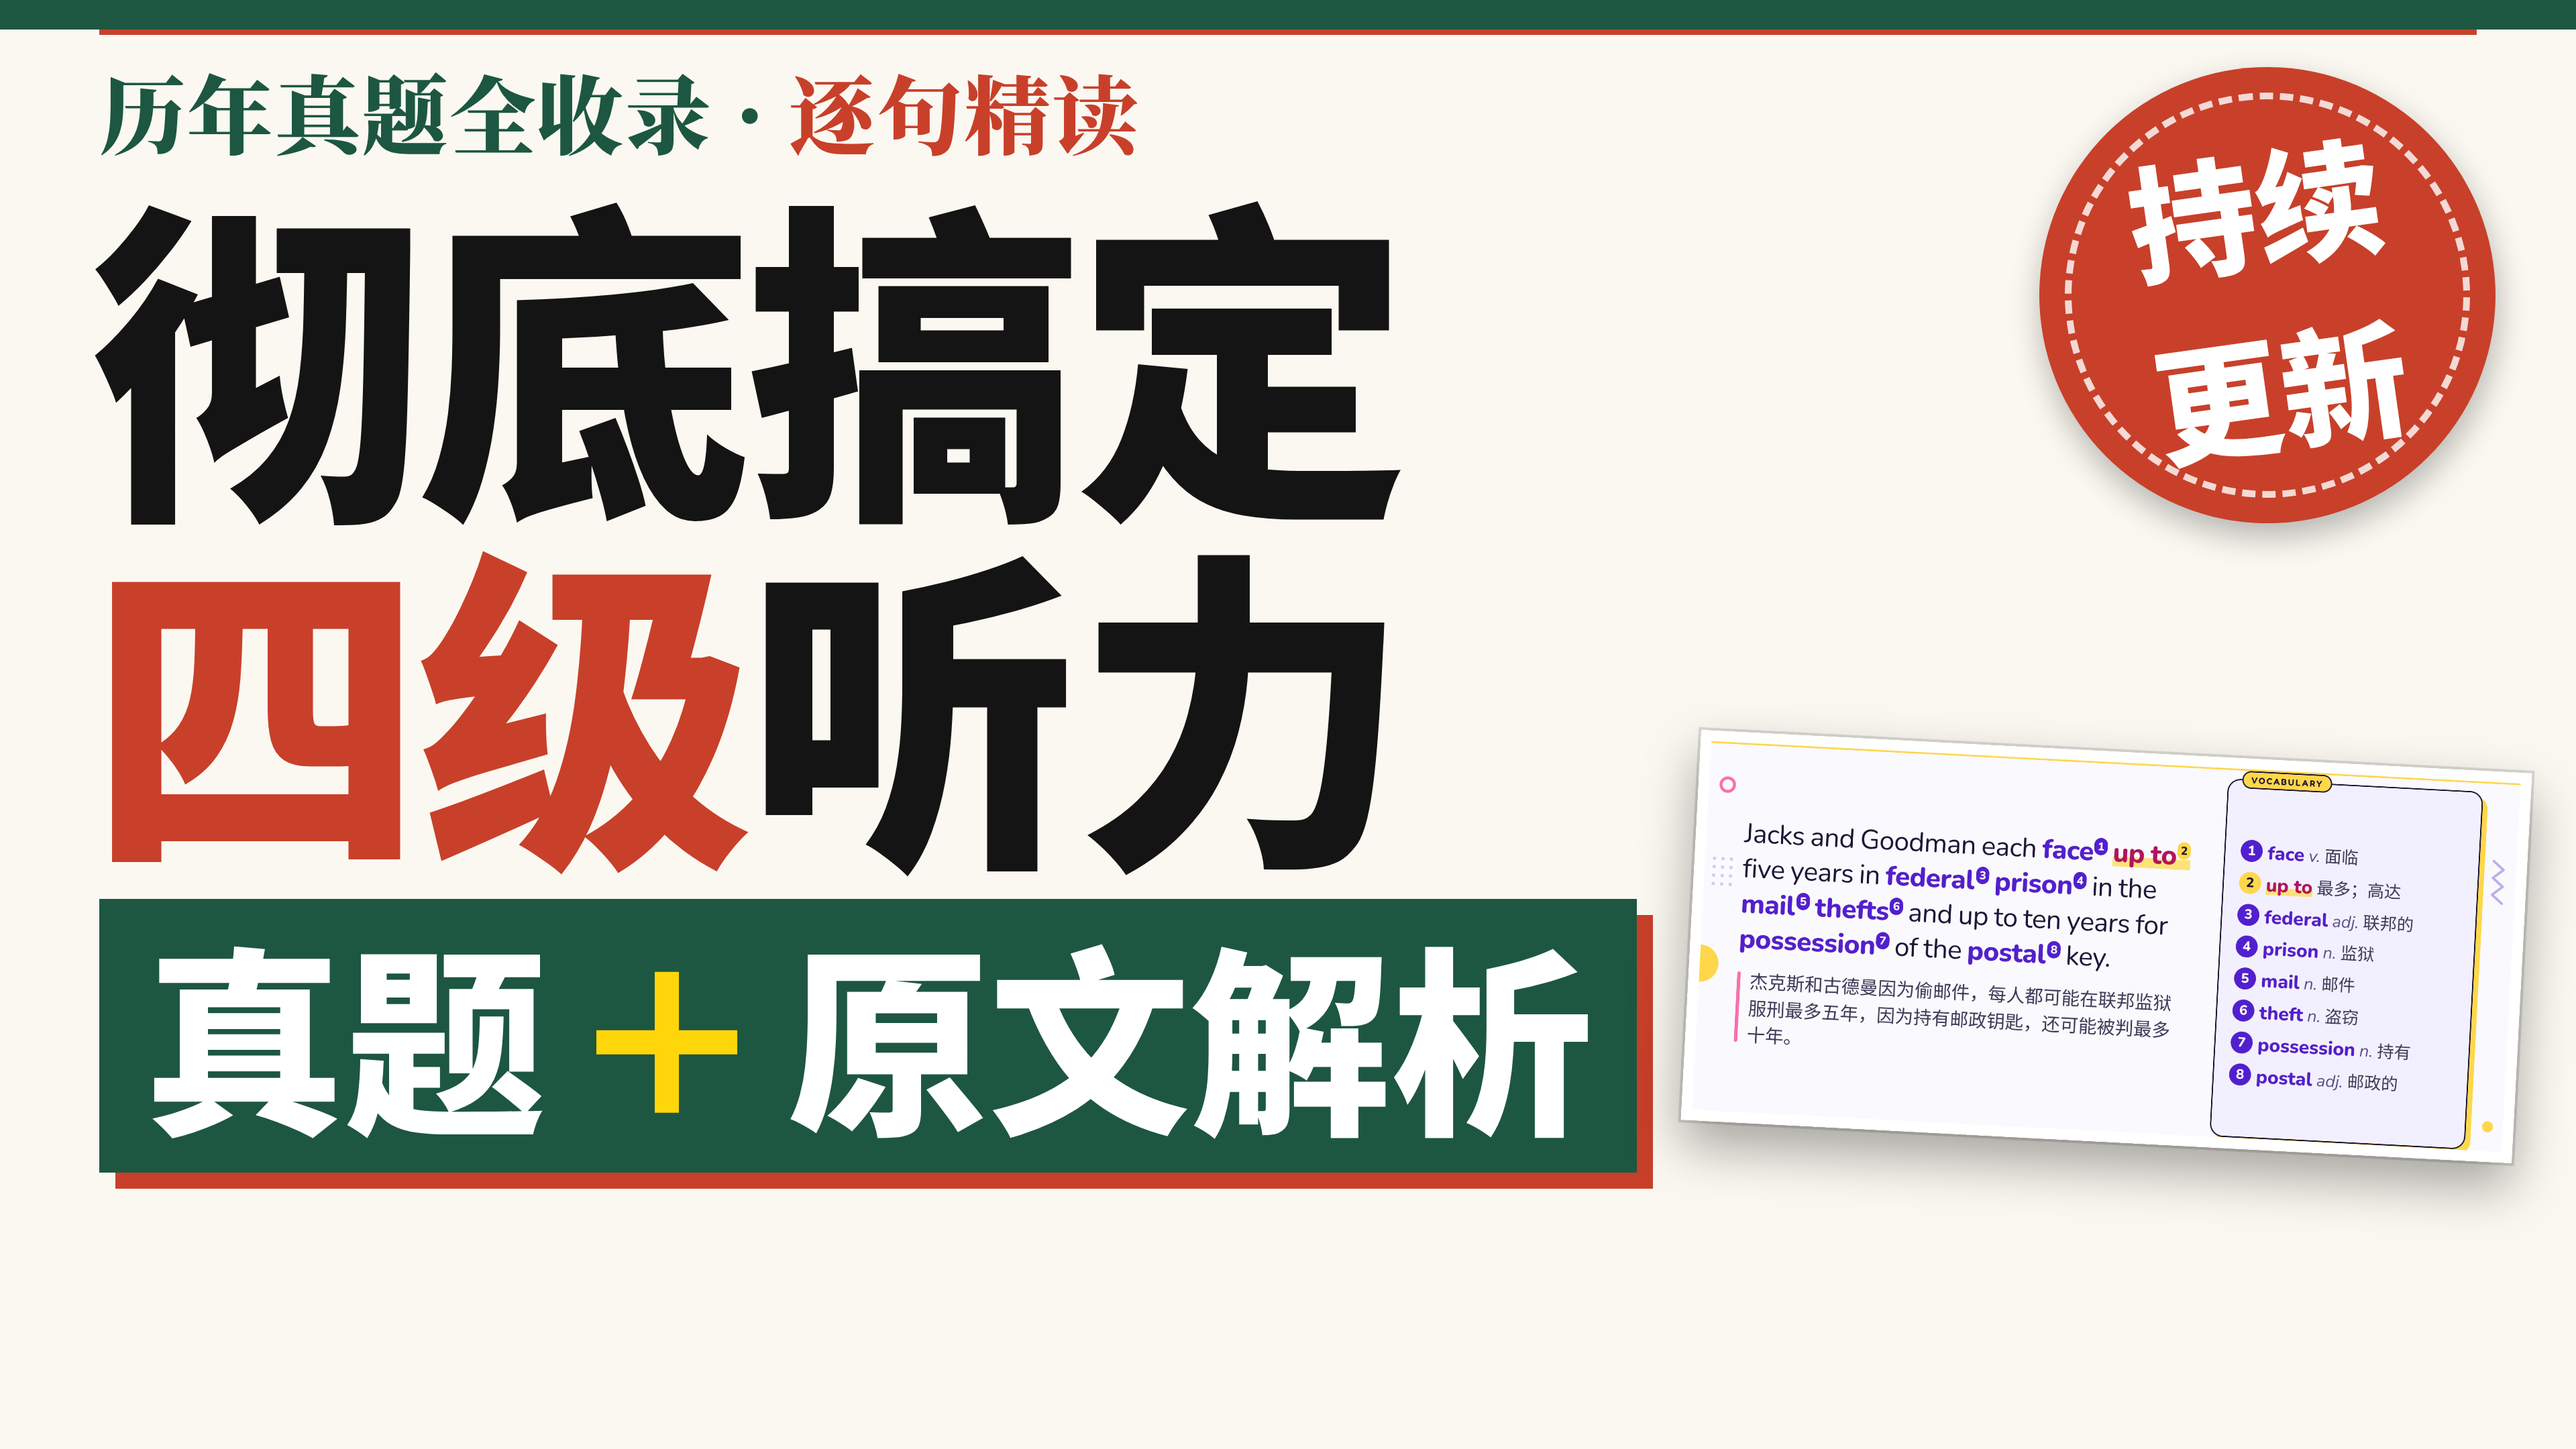
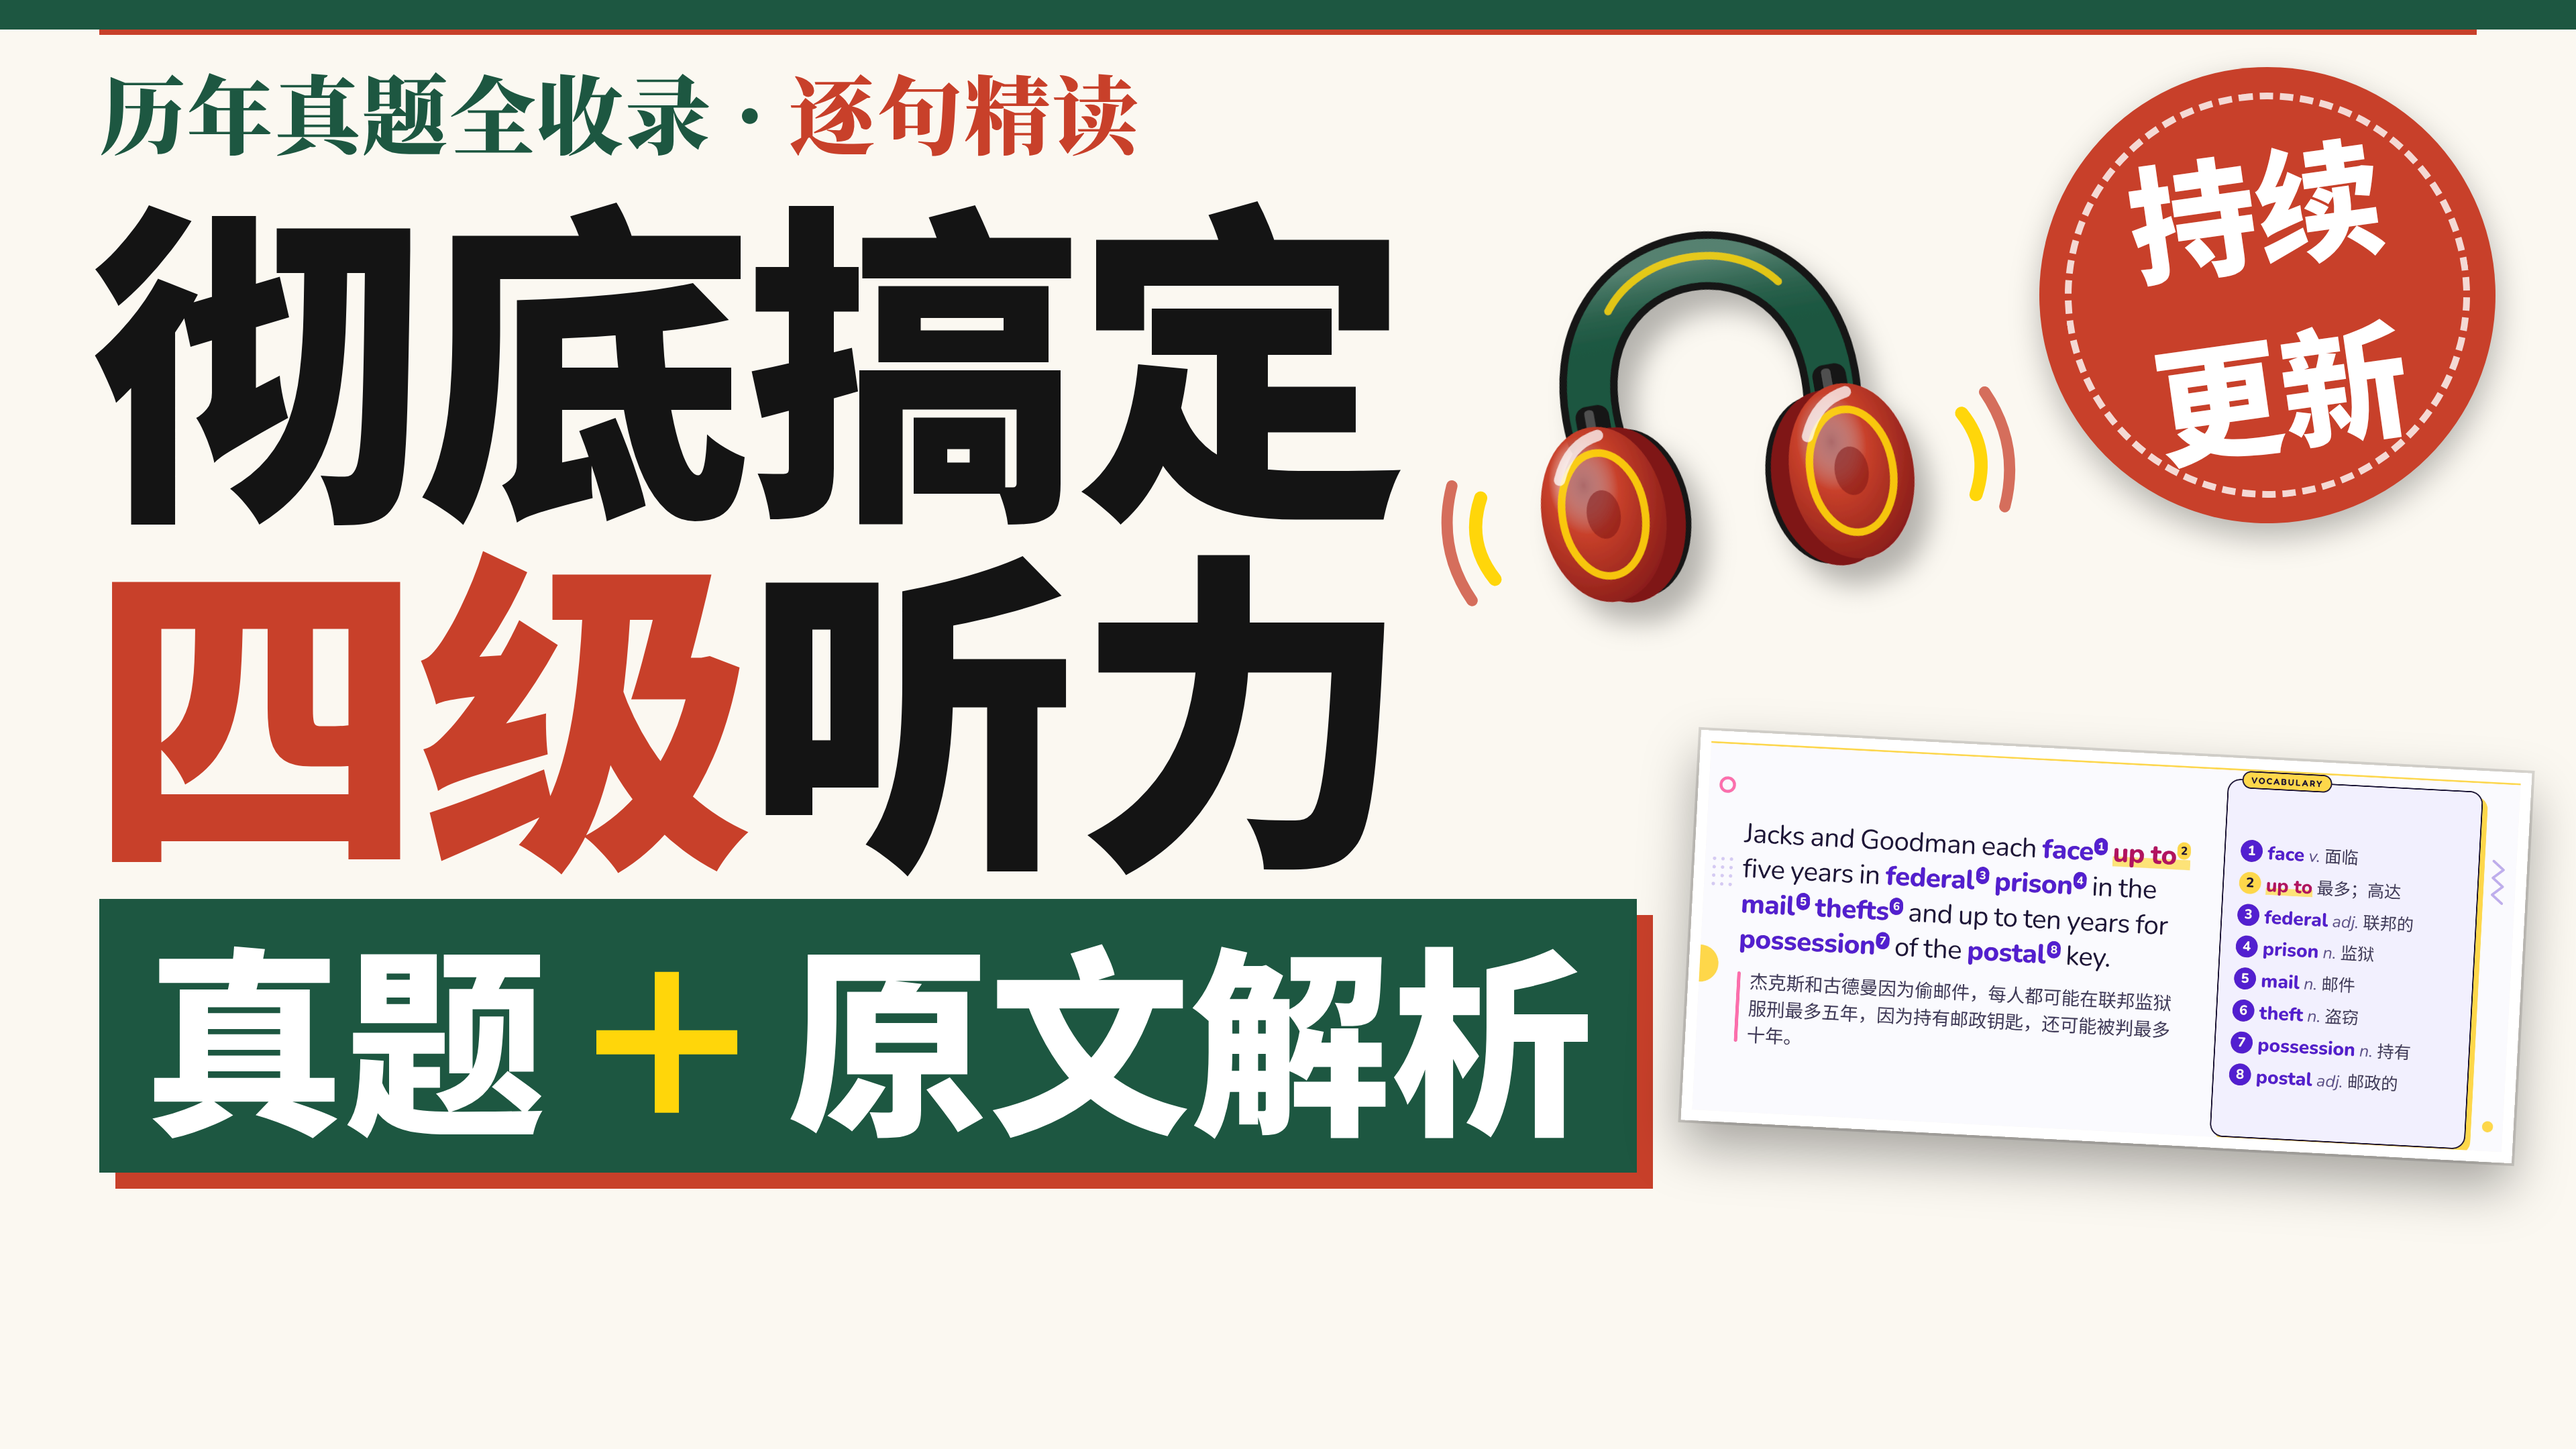
四级听力封面：定稿 A 加自己画的 SVG 头戴式耳机图标（墨绿头梁＋红耳罩＋黄高光＋投影＋声波）
16:9 放在大字右侧、红章左下、卡片上方；4:3 红章缩小移到右上角给耳机腾位置。
定稿 A 自查 0 处，--自检 通过；320×180 与六级听力、四级写作并排看过。

Claude-Session: https://claude.ai/code/session_01BA1TPDsEGngBc33Nxnyes7

Changed region(s): [[0.5625, 0.1551, 0.7812, 0.4343]]

diff --git a/四级/听力/封面/系列封面.py b/四级/听力/封面/系列封面.py
@@ -10,6 +10,7 @@
 - 两种视频都要突出：视频版真题考试（真题）＋ 原文逐句精读（原文解析）；手机信息流 320×180 一眼看清。
 程序自查：四级写作的 CHECK_JS（不出画、不进底角遮挡区、不重叠、不压截图、圆章字在圆内、字体加载、缩略图字高 主标题 24 / 钩子 13 / 卖点 10 像素）
 ＋ text_problems（每个字在所用字体 cmap 里；画面文字不许有任何数字——年份、套数都不许；“N 套”中文数字也报；必有的话都在）。
+耳机图标（老师 2026-11-06）：A 中间空白放自己画的 SVG 头戴式耳机（headphones，墨绿头梁＋红耳罩＋黄高光＋投影＋声波，倾斜 −10°），data-k=phones 一起查出画、重叠；4:3 红章缩到 300 移到右上角给耳机腾位置。
 素材：画面_原文解析.webp = 已发布的 cet4-listening-202506-1-text.mp4 第 200 秒一帧，裁掉顶部（印着年份月份）和底部（句号进度 “31 / 200”）。
 """
 import importlib.util
@@ -58,6 +59,48 @@ def seal(x, y, d, bg=RED, fg='#fff', rot=-8, ring='rgba(255,255,255,.8)'):
             f'<span style="font:900 {fs(d * SEAL_R)} Black">更新</span></div>')
 
 
+PHONES_V = 1     # 耳机配色方案（草稿比过 1/2，定稿用 1）
+
+
+def headphones(x, y, s, rot=-10, v=None):
+    """头戴式耳机（自己画的 SVG，老师 2026-11-06）：墨绿头梁 ＋ 红耳罩（厚度、内衬、黄高光、柔和投影）＋ 两侧声波，略微倾斜。
+    s = 宽（px），高 = s × 0.8；data-k 让 CHECK_JS 一起查出画、重叠。"""
+    v = v or PHONES_V
+    band, cup, cupd, pad = (GREEN, RED, '#7f1717', INK) if v == 1 else (RED, GREEN, '#0d3524', INK)
+    wave1, wave2 = (YEL, RED) if v == 1 else (YEL, GREEN)
+    def side(cx, m):      # m = 1 右、-1 左；耳罩朝里有厚度
+        return f'''
+  <rect x="{cx - 9}" y="112" width="18" height="34" rx="6" fill="{pad}"/>
+  <rect x="{cx - 4}" y="114" width="5" height="28" rx="2" fill="#fff" opacity=".25"/>
+  <ellipse cx="{cx - m * 13}" cy="172" rx="30" ry="45" fill="{pad}"/>
+  <ellipse cx="{cx - m * 7}" cy="172" rx="33" ry="47" fill="{cupd}"/>
+  <ellipse cx="{cx + m * 3}" cy="170" rx="33" ry="47" fill="url(#cg{v})"/>
+  <ellipse cx="{cx + m * 3}" cy="170" rx="22" ry="33" fill="none" stroke="{YEL}" stroke-width="4" opacity=".9"/>
+  <ellipse cx="{cx + m * 3}" cy="170" rx="9" ry="13" fill="{cupd}" opacity=".55"/>
+  <path d="M{cx + m * 3 - 20} {148} Q{cx + m * 3 - 12} {130} {cx + m * 3 + 4} {128}" stroke="#fff" stroke-width="6" stroke-linecap="round" fill="none" opacity=".75"/>'''
+    waves = ''.join(
+        f'<path d="M{150 + m * (130 + 14 * i)} {172 - 22 - 9 * i} Q{150 + m * (142 + 16 * i)} 172 {150 + m * (130 + 14 * i)} {172 + 22 + 9 * i}" '
+        f'stroke="{wave1 if i == 0 else wave2}" stroke-width="{7 - i}" stroke-linecap="round" fill="none" opacity="{1 - .25 * i}"/>'
+        for m in (1, -1) for i in (0, 1))
+    return f'''<svg class="ab" data-k="phones" viewBox="0 0 300 240" style="left:{x}px;top:{y}px;width:{s}px;height:{s * .8:.0f}px;overflow:visible">
+ <defs>
+  <radialGradient id="cg{v}" cx=".38" cy=".32" r=".8"><stop offset="0" stop-color="#fff" stop-opacity=".35"/><stop offset=".35" stop-color="{cup}"/><stop offset="1" stop-color="{cupd}"/></radialGradient>
+  <linearGradient id="bg{v}" x1="0" y1="0" x2="0" y2="1"><stop offset="0" stop-color="#fff" stop-opacity=".25"/><stop offset=".5" stop-color="{band}" stop-opacity="0"/></linearGradient>
+  <filter id="sh{v}" x="-20%" y="-20%" width="150%" height="160%"><feDropShadow dx="7" dy="12" stdDeviation="7" flood-color="#000" flood-opacity=".28"/></filter>
+ </defs>
+ <g transform="rotate({rot} 150 130)">
+  {waves}
+  <g filter="url(#sh{v})">
+   <path d="M86 128 C76 18, 224 18, 214 128" stroke="{pad}" stroke-width="31" stroke-linecap="round" fill="none"/>
+   <path d="M86 128 C76 18, 224 18, 214 128" stroke="{band}" stroke-width="23" stroke-linecap="round" fill="none"/>
+   <path d="M86 128 C76 18, 224 18, 214 128" stroke="url(#bg{v})" stroke-width="23" stroke-linecap="round" fill="none"/>
+   <path d="M104 64 C125 36, 175 36, 196 64" stroke="{YEL}" stroke-width="4" stroke-linecap="round" fill="none" opacity=".85"/>
+   {side(86, -1)}{side(214, 1)}
+  </g>
+ </g>
+</svg>'''
+
+
 def card(x, y, w, rot=3):
     return f'<img class="card" data-k="card" src="{SHOT.as_uri()}" style="left:{x}px;top:{y}px;width:{w}px;transform:rotate({rot}deg)">'
 
@@ -84,7 +127,8 @@ def A(w=1920, h=1080):
  <div>彻底搞定</div><div><span style="color:{RED}">四级</span>听力</div></div>
 <div class="ab" data-k="sub" data-min="{MIN_TITLE}" style="left:{left}px;top:{t * 2.08 + (150 if wide else 168):.0f}px;{two(sub, 0)}</div>
 {card(1260, 560, 620, rot=3) if wide else card(1020, 850, 380, rot=4)}
-{seal(1520, 50, 340) if wide else seal(1040, 170, 340)}
+{seal(1520, 50, 340) if wide else seal(1080, 44, 300)}
+{headphones(1068, 130, 420) if wide else headphones(1112, 375, 300)}
 {EXTRA}"""
 
 

diff --git a/四级/听力/封面/交接_耳机图标.md b/四级/听力/封面/交接_耳机图标.md
@@ -20,3 +20,8 @@
 3. `python3 四级/听力/封面/系列封面.py 定稿 A` 输出 0 处；`--自检` 通过。
 4. 把新封面、六级听力封面、四级写作封面三张都缩到 320×180 拼成一张看一遍：耳机认得出，和六级一眼能分开。
 5. 提交推送到 claude/epic-edison-4gkcfb；用 send_message 把路径和提交号发给总协调 session_01BA1TPE5ZBhFNNMboWMKWnX；用 SendUserFile 把 16:9、4:3 两张 PNG 发给老师。
+
+## 完成（2026-11-06）
+- 比了 2 个配色（1 墨绿头梁＋红耳罩；2 红头梁＋绿耳罩），选 1：在 320×180 里最醒目，和红章、大字配色呼应。
+- 位置：16:9 耳机 (1068,130) 宽 420；4:3 红章改 seal(1080,44,300)、耳机 (1112,375) 宽 300。
+- `定稿 A` 0 处，`--自检` 通过；与六级听力、四级写作 320×180 并排看过：耳机认得出，和六级黑板一眼分得开。
